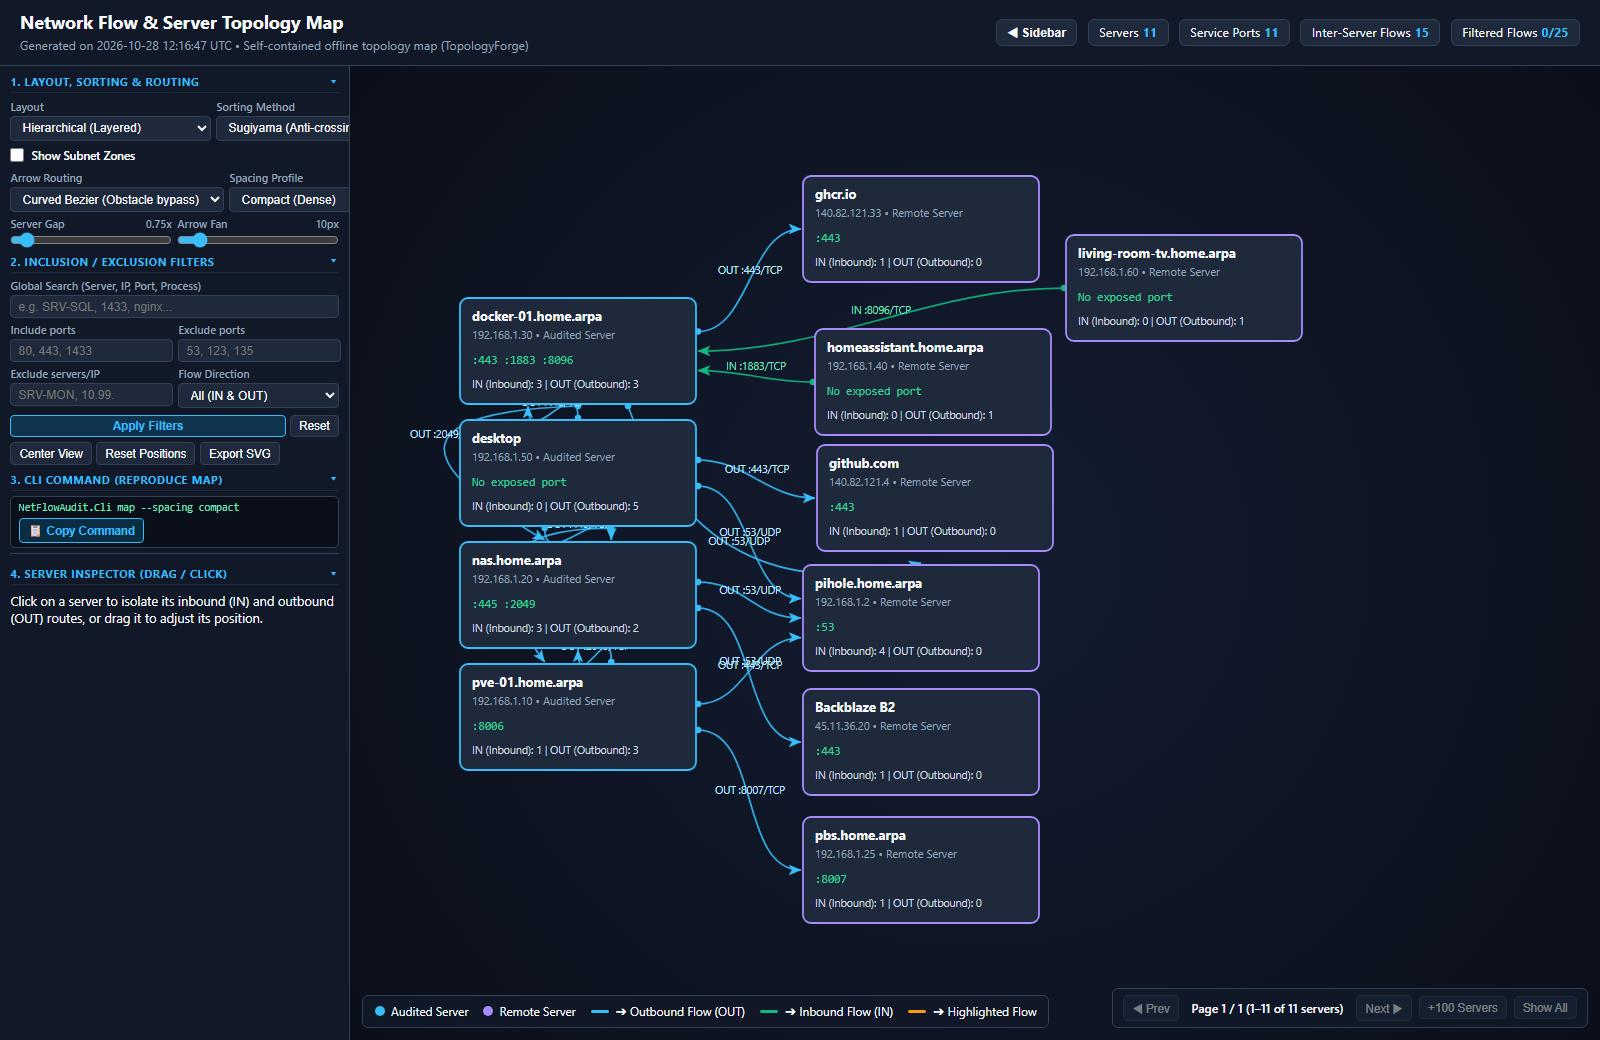
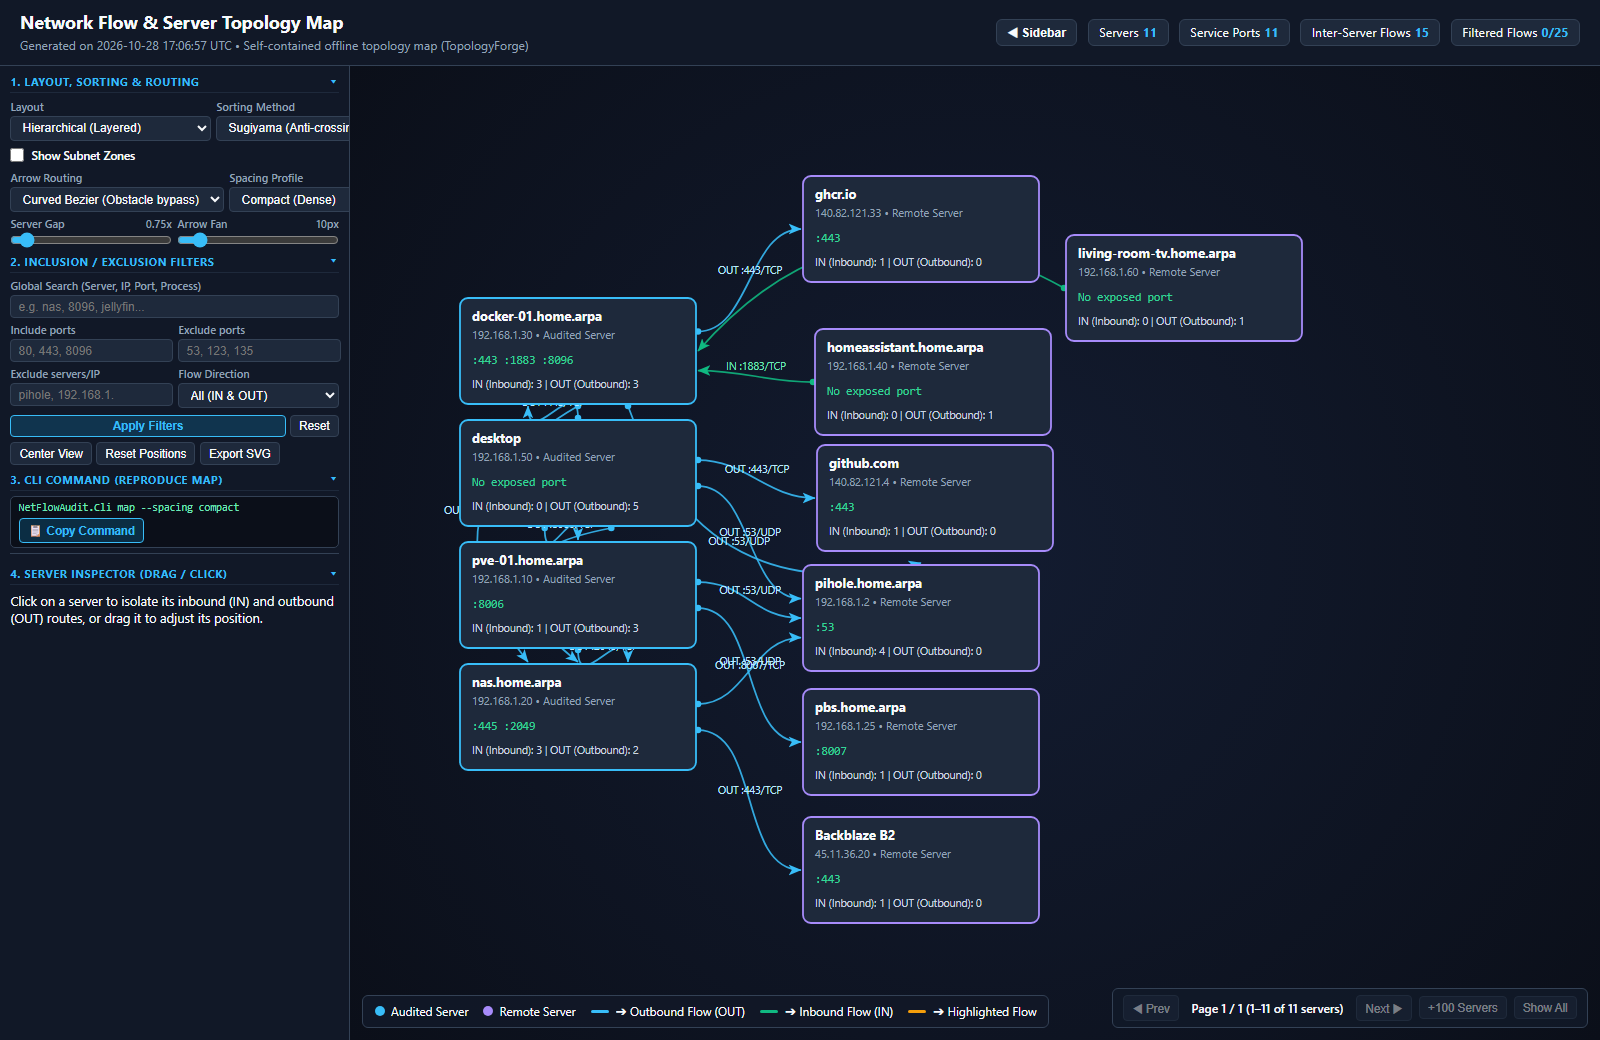
fix(map): use TopologyForge 1.5.3 for the HTML map geometry
Refresh the topology map screenshot, whose filter fields now show home lab examples.

diff --git a/docs/explanation/architecture.fr.md b/docs/explanation/architecture.fr.md
@@ -62,7 +62,7 @@ Le programme est réparti entre l'application et quatre frameworks publiés en p
 | SocketForge 1.1.0 | Tables de sockets sous Windows et Linux |
 | ProcessForge 1.1.1 | Informations et compte des processus, cibles des lanceurs, exclusion de processus |
 | FileForge.Core 1.1.0 | Écriture CSV et NDJSON qui laisse les fichiers lisibles par d'autres programmes pendant l'audit |
-| TopologyForge 1.5.2 | Graphe topologique, filtres, carte HTML et export Draw.io |
+| TopologyForge 1.5.3 | Graphe topologique, filtres, carte HTML et export Draw.io |
 
 L'application (`NetFlowAudit.Core`, `NetFlowAudit.Cli`) contient ce qui est propre à l'audit : le cycle de balayage, la déduplication, la résolution de noms, la ligne de commande, le tableau de bord et les exports.
 

diff --git a/docs/explanation/architecture.md b/docs/explanation/architecture.md
@@ -62,7 +62,7 @@ The program is split between the application and four frameworks published as Nu
 | SocketForge 1.1.0 | Socket tables on Windows and Linux |
 | ProcessForge 1.1.1 | Process details and account, launcher targets, process exclusion |
 | FileForge.Core 1.1.0 | CSV and NDJSON writers that keep the files readable by other programs while the audit runs |
-| TopologyForge 1.5.2 | Topology graph, filters, HTML map and Draw.io export |
+| TopologyForge 1.5.3 | Topology graph, filters, HTML map and Draw.io export |
 
 The application (`NetFlowAudit.Core`, `NetFlowAudit.Cli`) holds what is specific to the audit: the scan cycle, deduplication, name resolution, the command line, the dashboard and the exports.
 
